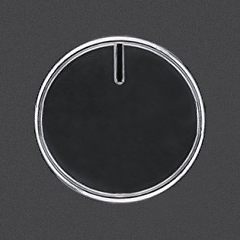
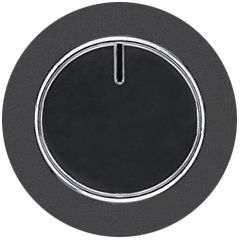
update UI when station changes

Changed region(s): [[0.0, 0.0, 1.0, 1.0]]

diff --git a/js/radio.js b/js/radio.js
@@ -13,6 +13,10 @@ var Radio = (function() {
     this.data = this.parseData(MANIFEST);
     // console.log(this.data);
 
+    this.$station = $("#station");
+    this.$stationLabel = $("#station-label");
+    this.$stationSignal = $("#signal-status");
+
     this.time = this.opt.startTime;
     this.place = this.opt.startPlace;
 
@@ -127,10 +131,28 @@ var Radio = (function() {
 
   Radio.prototype.updateUI = function(person){
     var prev = this.person;
-    var changed = (prev && person && person.index !== prev.index);
+    var changed = (!prev && person || prev && !person || prev && person && person.index !== prev.index);
+
+    var zone = parseInt(Math.round(this.place * 23)) - 11;
+    if (zone >= 0) zone = "+" + zone;
+    var timezone = "GMT"+zone+":00";
+    var time = lerp(this.opt.minTime, this.opt.maxTime, this.time);
+    var hour = parseInt(Math.floor(time / 60 / 60));
+    var minute = parseInt(Math.floor(time / 60) - hour * 60);
+
+    this.$station.text(pad(hour, 2) + ":" + pad(minute, 2) + " (" + timezone + ")")
+
     if (changed && person) {
-      console.log('Playing '+person.label+' with signal '+person.signal);
+      this.$stationLabel.text(person.label);
+
+    } else if (changed) {
+      this.$stationLabel.text("No signal");
     }
+
+    if (person) {
+      this.$stationSignal.css('opacity', person.signal);
+    }
+
     this.person = person;
   };
 

diff --git a/css/app.css b/css/app.css
@@ -120,7 +120,7 @@ body {
 .info .signal {
   width: 5vmin;
   height: 5vmin;
-  background: #00ff60;
+  background: #335941;
   border-radius: 2.5vmin;
   float: left;
   position: relative;
@@ -131,8 +131,8 @@ body {
   left: 0;
   width: 100%;
   height: 100%;
-  background: black;
-  opacity: 0.6;
+  background: #00ff60;
+  opacity: 0;
   border-radius: 50%;
 }
 .info .label {

diff --git a/index.html b/index.html
@@ -37,7 +37,7 @@
         <div class="info">
           <div class="signal"><div id="signal-status" class="signal-status"></div></div>
           <div class="label">
-            <div id="station">00:00 (Eastern Standard Time)</div>
+            <div id="station">--:--</div>
             <div id="station-label">Nobody eating breakfast</div>
           </div>
         </div>

diff --git a/js/utils.js b/js/utils.js
@@ -11,3 +11,9 @@ function lerp(a, b, percent) {
 function norm(value, a, b) {
   return (1.0 * value - a) / (b - a);
 }
+
+function pad(n, width, z) {
+  z = z || '0';
+  n = n + '';
+  return n.length >= width ? n : new Array(width - n.length + 1).join(z) + n;
+}
